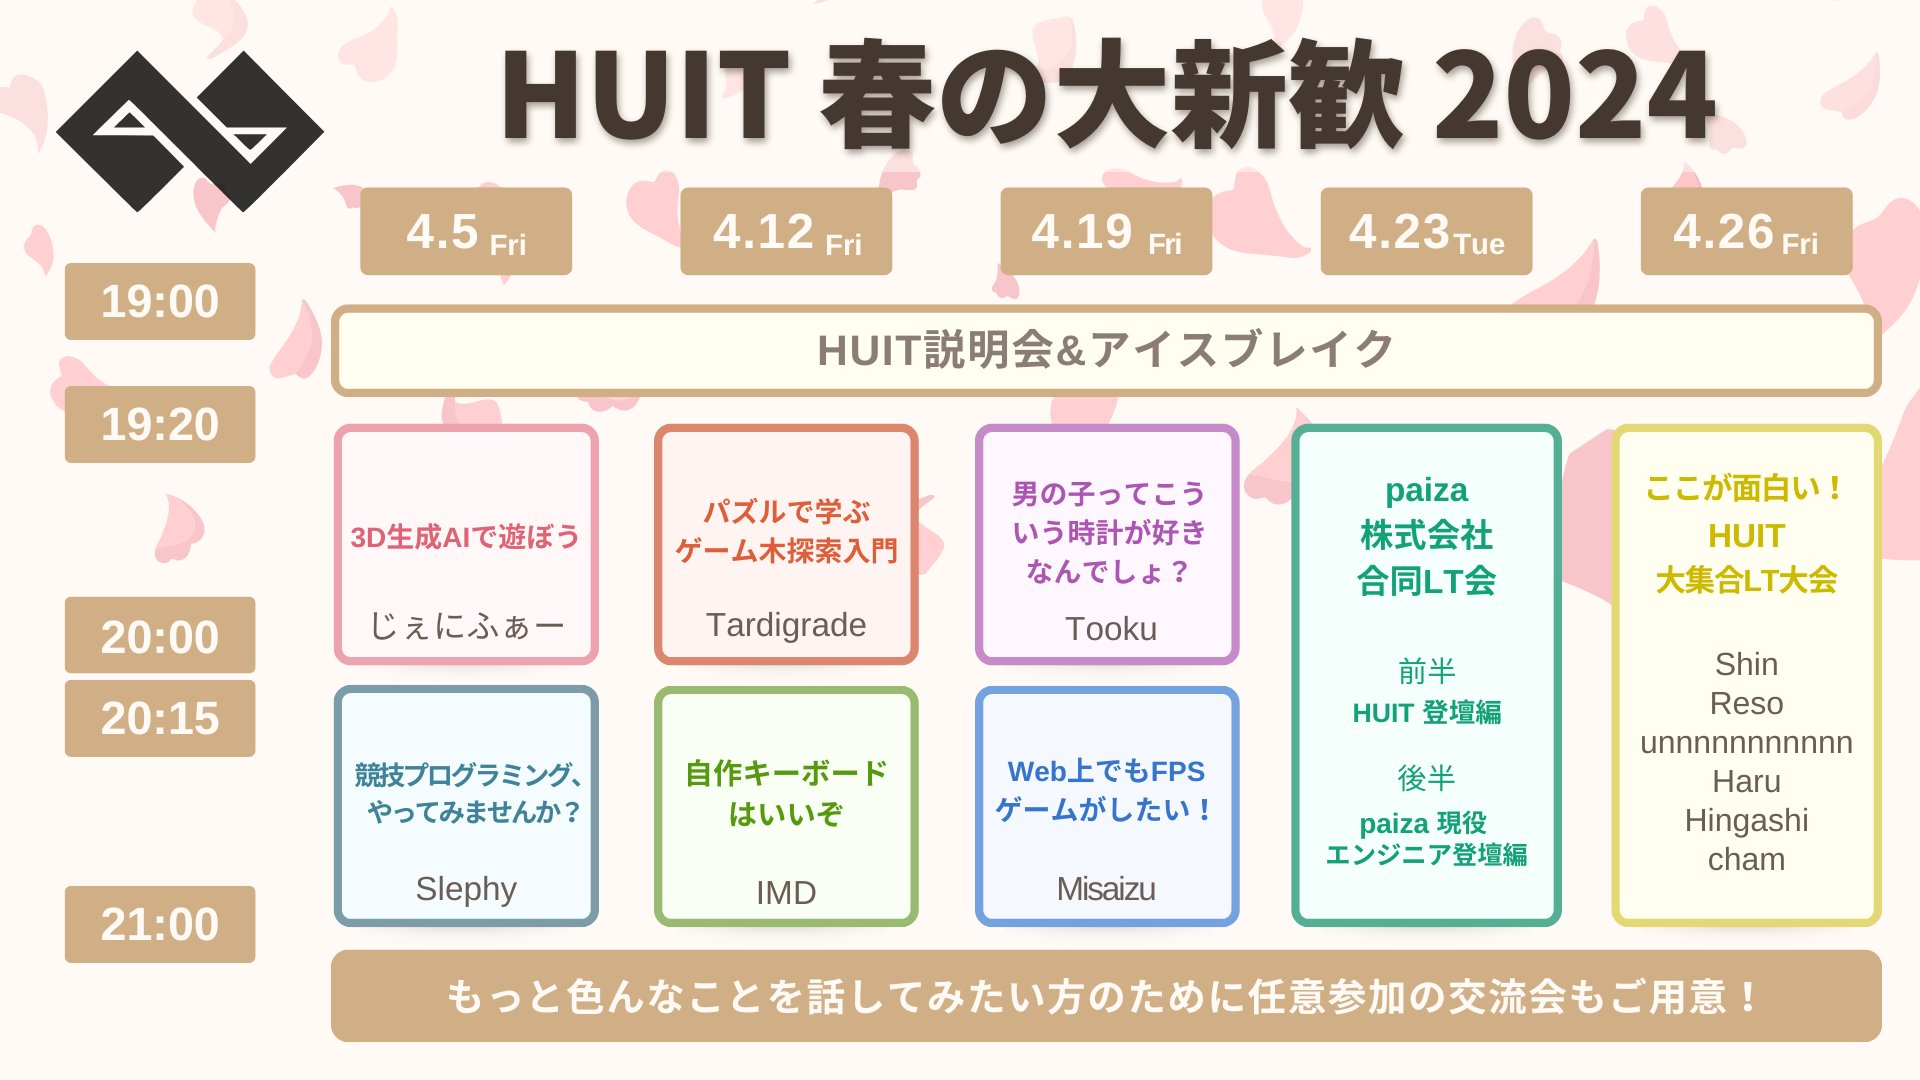
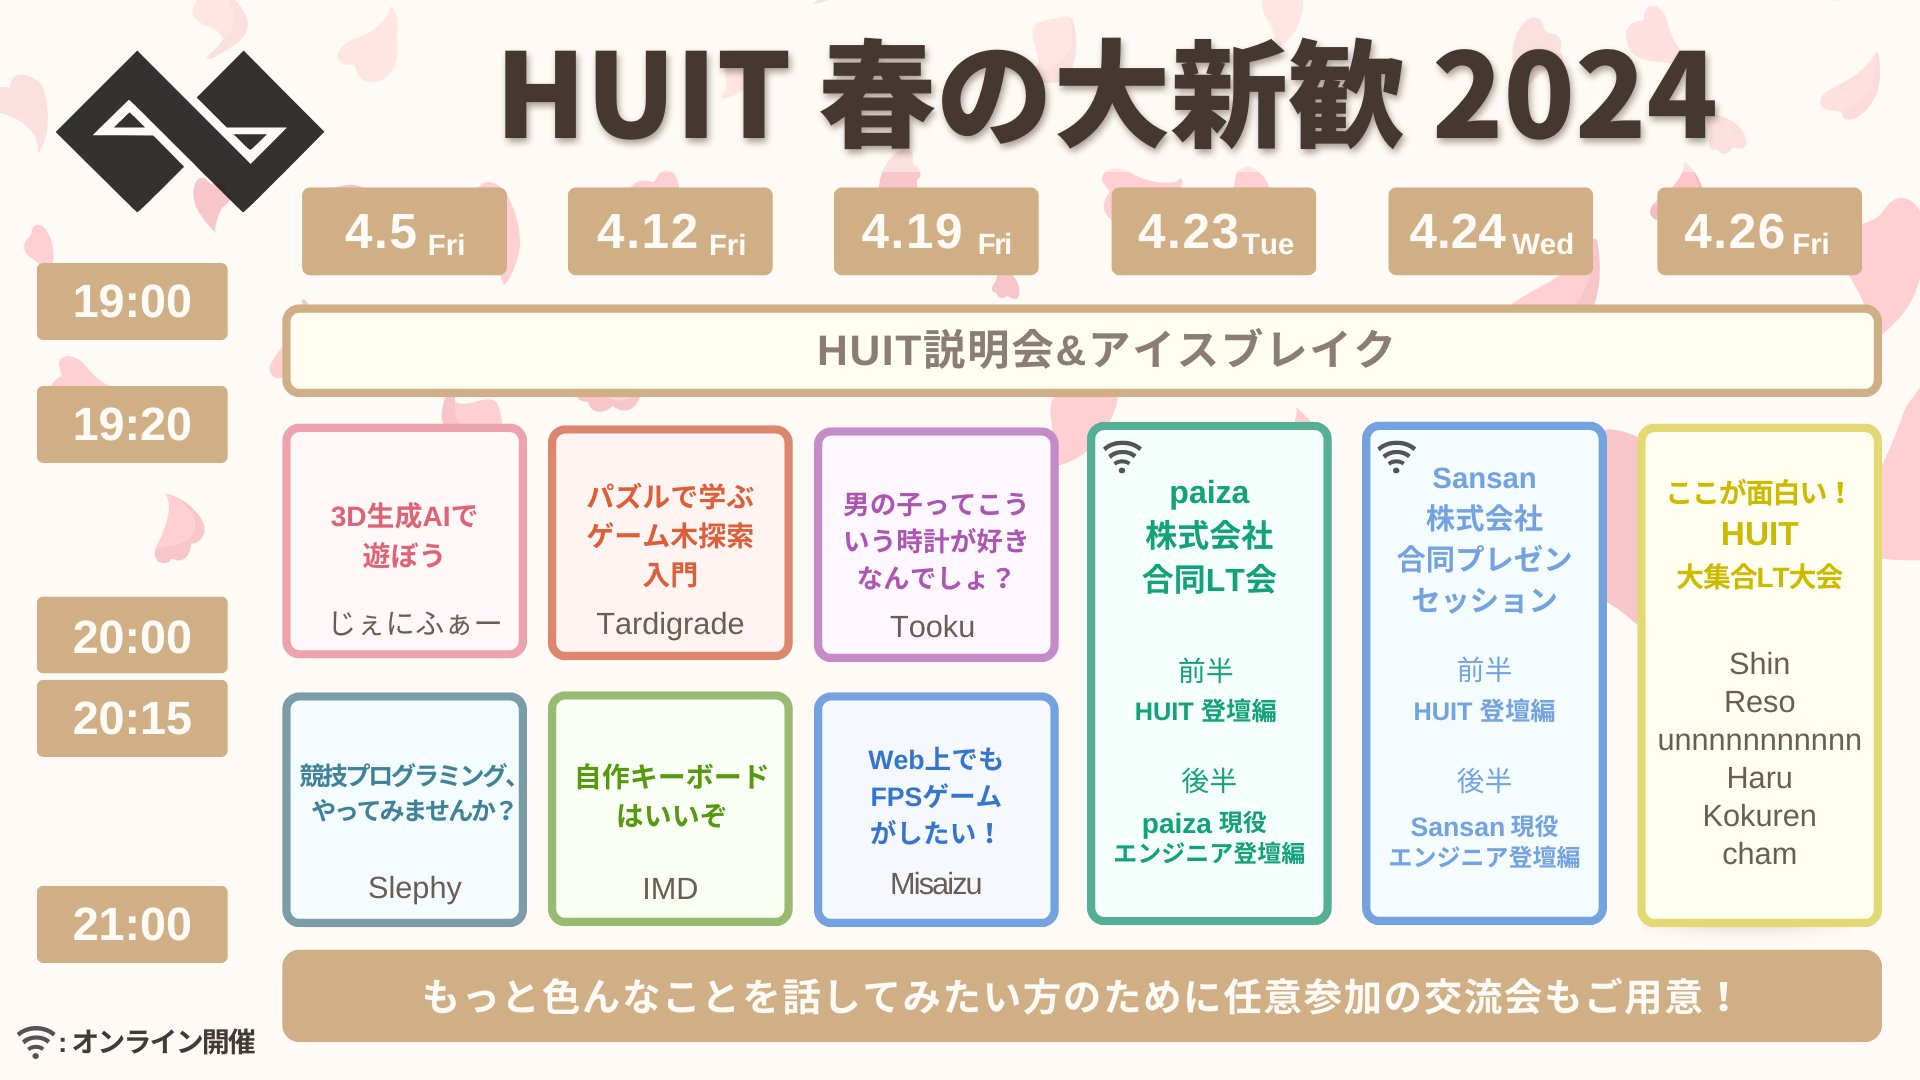
Sansan 株式会社 合同プレゼンセッション 追加

Changed region(s): [[0.0, 0.1528, 0.9688, 0.9778]]

diff --git a/_pages/welcomeparty2024.md b/_pages/welcomeparty2024.md
@@ -82,6 +82,17 @@ permalink: /welcomeparty2024
 paiza 株式会社 様と合同で LT(ライトニングトーク)会をします！
 前半は HUIT のメンバーが、後半は paiza の現役エンジニアの方が登壇します！
 
+※オンラインにて開催します
+
+---
+
+**4/24(水) Sansan 株式会社 合同プレゼンセッション**
+
+Sansan 株式会社 様と合同でプレゼンセッションをします！
+前半は HUIT のメンバーが、後半は Sansan の現役エンジニアの方が登壇します！
+
+※オンラインにて開催します
+
 ---
 
 **4/26(金) ここが面白い！HUIT 大集合 LT 大会**
